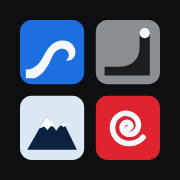
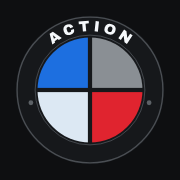
Rundmärke: ACTION i ringen, fyra färgfält; sinuskurva för Mind action
Claude-Session: https://claude.ai/code/session_01STPYKS9MGx6UKJyGrrjUNw

diff --git a/src/components/Logo.tsx b/src/components/Logo.tsx
@@ -1,22 +1,29 @@
 import type { SectionId } from '@/lib/sections';
 
+import { ACTION_ARC_PATH } from './brand-paths';
+
 /**
- * ELEMENTACTIONS MÄRKEN — helt grafiska, ingen text.
+ * ELEMENTACTIONS MÄRKEN
+ *
+ * Huvudmärket är en rund bricka: en mörk ring med ordet ACTION längs
+ * övre bågen, och en inre cirkel delad i fyra fält i sektionernas färger
+ * (vatten blått, betong grått, snö isvitt, mind rött) med en smal glipa
+ * emellan. Ordet "Element" står aldrig i märket.
  *
  * Fyra sektionsmärken, ett per "action":
  *   Water action     blå ruta, en våg som bryter
  *   Concrete action  grå ruta, en quarterpipe i profil med coping
  *   Snow action      isvit ruta, en bergstopp med snötäcke
- *   Mind action      röd ruta, en spiral (tanken som vecklar ut sig)
+ *   Mind action      röd ruta, en sinuskurva
  *
- * Huvudmärket är de fyra sektionsmärkena satta i ett 2×2-rutnät.
- * Fristående SVG-filer finns i public/brand/ (mark.svg, mark-water.svg …)
- * för profilbilder, favicon och tryck.
+ * ACTION-texten är färdiga banor (brand-paths.ts), så märket ser likadant
+ * ut överallt utan att typsnittet behöver laddas. Fristående SVG-filer
+ * finns i public/brand/ (mark.svg, mark-water.svg …).
  */
 
 type MarkProps = { size?: number; className?: string; title?: string };
 
-const TILE = 22; // rutans storlek i huvudmärkets 48×48-rutnät
+const TILE = 22; // sektionsmärkets ruta (viewBox 22×22)
 
 /** Symbolerna ritas i en 22×22-ruta så att de kan återanvändas i båda storlekarna. */
 function Symbol({ section }: { section: SectionId }) {
@@ -55,12 +62,12 @@ function Symbol({ section }: { section: SectionId }) {
       return (
         <>
           <rect width={TILE} height={TILE} rx="4" fill="#e0242f" />
-          {/* spiral som vecklar ut sig från mitten */}
+          {/* sinuskurva: en och en halv period över rutan */}
           <path
-            d="M11 11.2c.9 0 1.3-.9.8-1.6-.7-.9-2.3-.6-2.7.6-.5 1.6.9 3.1 2.6 3 2.2-.1 3.4-2.4 2.7-4.4-.9-2.6-4-3.5-6.3-2.2-2.8 1.6-3.1 5.6-1 7.9 2.4 2.6 6.8 2.4 9.1-.3"
+            d="M3 11C4.9 4.6 6.4 4.6 8.33 11S11.7 17.4 13.67 11 17.1 4.6 19 11"
             fill="none"
             stroke="#f5f8fb"
-            strokeWidth="1.9"
+            strokeWidth="2.2"
             strokeLinecap="round"
           />
         </>
@@ -85,21 +92,30 @@ export function SectionMark({ section, size = 32, className, title }: MarkProps 
   );
 }
 
-/** Huvudmärket: alla fyra i ett 2×2-rutnät. */
+const QUADRANTS: [string, string][] = [
+  ['#1d6fe0', 'M50 50V15A35 35 0 0 0 15 50z'], // uppe vänster: vatten
+  ['#8a8f94', 'M50 50V15A35 35 0 0 1 85 50z'], // uppe höger: betong
+  ['#dce8f3', 'M50 50H15A35 35 0 0 0 50 85z'], // nere vänster: snö
+  ['#e0242f', 'M50 50H85A35 35 0 0 1 50 85z'] // nere höger: mind
+];
+
+/** Huvudmärket: ring med ACTION överst, fyra färgfält i mitten. */
 export function LogoMark({ size = 40, className, title = 'Elementaction' }: MarkProps) {
-  const cells: [SectionId, number, number][] = [
-    ['surfing', 0, 0],
-    ['skateboard', 26, 0],
-    ['snowboard', 0, 26],
-    ['inspiration', 26, 26]
-  ];
   return (
-    <svg width={size} height={size} viewBox="0 0 48 48" className={className} role="img" aria-label={title}>
-      {cells.map(([s, x, y]) => (
-        <g key={s} transform={`translate(${x} ${y})`}>
-          <Symbol section={s} />
-        </g>
+    <svg width={size} height={size} viewBox="0 0 100 100" className={className} role="img" aria-label={title}>
+      <circle cx="50" cy="50" r="49.5" fill="#16181b" />
+      <circle cx="50" cy="50" r="48.6" fill="none" stroke="#4a4e53" strokeWidth=".9" />
+      <circle cx="50" cy="50" r="36.6" fill="none" stroke="#4a4e53" strokeWidth=".6" />
+      <path d={ACTION_ARC_PATH} fill="#f5f8fb" />
+      {/* små markeringar där bågtexten slutar */}
+      <circle cx="10.6" cy="58.5" r="1.6" fill="#5c6166" />
+      <circle cx="89.4" cy="58.5" r="1.6" fill="#5c6166" />
+      {QUADRANTS.map(([fill, d]) => (
+        <path key={fill} d={d} fill={fill} />
       ))}
+      {/* glipan mellan fälten */}
+      <rect x="48.6" y="14" width="2.8" height="72" fill="#16181b" />
+      <rect x="14" y="48.6" width="72" height="2.8" fill="#16181b" />
     </svg>
   );
 }

diff --git a/src/components/brand-paths.ts b/src/components/brand-paths.ts
@@ -1,0 +1,3 @@
+// Genererad av scripts/staging/action_arc.py — ordet ACTION som banor längs ringens övre båge.
+export const ACTION_ARC_PATH =
+  "M29.24 16.72 28.45 16.07 26.45 17.43 26.76 18.4 24.88 19.67 23.09 12.54 25.23 11.1 31.18 15.4ZM25.97 15.89 27.2 15.05 25.23 13.42 25.2 13.45Z M38.83 8.06 36.83 8.77Q36.63 8.2 36.22 7.98Q35.8 7.75 35.26 7.94Q34.62 8.17 34.46 8.67Q34.31 9.17 34.56 9.88L34.77 10.49Q35.02 11.19 35.46 11.48Q35.9 11.78 36.51 11.56Q37.12 11.35 37.32 10.93Q37.52 10.5 37.32 9.94L39.25 9.25Q39.72 10.59 39.16 11.59Q38.59 12.58 37.09 13.11Q35.43 13.7 34.27 13.15Q33.12 12.6 32.53 10.94Q31.94 9.28 32.49 8.12Q33.05 6.97 34.71 6.38Q36.16 5.87 37.26 6.29Q38.35 6.72 38.83 8.06Z M47.02 5.75 47.49 10.87 45.28 11.07 44.81 5.96 42.56 6.16 42.39 4.41 49.11 3.79 49.27 5.54Z M53.06 10.9 53.79 4.04 56 4.28 55.26 11.14Z M66.91 10.67Q66.36 12.32 65.15 12.89Q63.94 13.45 62.24 12.89Q60.55 12.33 59.91 11.16Q59.28 10 59.83 8.33Q60.38 6.66 61.58 6.11Q62.79 5.55 64.48 6.11Q66.18 6.67 66.81 7.84Q67.45 9.01 66.91 10.67ZM62.08 8.74 61.88 9.35Q61.65 10.04 61.87 10.57Q62.09 11.09 62.76 11.32Q63.44 11.54 63.93 11.25Q64.42 10.96 64.65 10.26L64.85 9.65Q65.08 8.96 64.86 8.43Q64.64 7.9 63.96 7.68Q63.29 7.46 62.8 7.75Q62.31 8.04 62.08 8.74Z M72.99 18.22 72.44 13.82 70.58 16.61 68.89 15.48 72.71 9.74 74.33 10.81 74.85 15.25 76.74 12.42 78.43 13.55 74.6 19.29Z";

diff --git a/scripts/staging/action_arc.py b/scripts/staging/action_arc.py
@@ -1,0 +1,43 @@
+"""Gör ordet ACTION till SVG-banor längs ringens övre båge (viewBox 0 0 100 100),
+så att märket ser likadant ut överallt utan att typsnittet behöver laddas."""
+import math
+from fontTools.ttLib import TTFont
+from fontTools.pens.svgPathPen import SVGPathPen
+from fontTools.pens.transformPen import TransformPen
+
+font = TTFont('node_modules/@fontsource/archivo-black/files/archivo-black-latin-400-normal.woff')
+gs = font.getGlyphSet(); cmap = font.getBestCmap(); upm = font['head'].unitsPerEm
+CAP = font['OS/2'].sCapHeight or 0.7 * upm
+
+TEXT = 'ACTION'
+CX = CY = 50
+R_TEXT = 39.2        # baslinjens radie
+CAP_H = 6.9          # versalhöjd i viewBox-enheter
+TRACK = 2.2          # extra avstånd mellan bokstäver (enheter längs bågen)
+s = CAP_H / CAP
+
+widths = [gs[cmap[ord(c)]].width * s for c in TEXT]
+total = sum(widths) + TRACK * (len(TEXT) - 1)
+# bågvinkel från bågens längd; texten centreras runt toppen (-90°)
+ang_total = total / R_TEXT
+a = -math.pi / 2 - ang_total / 2
+out = []
+for c, w in zip(TEXT, widths):
+    mid = a + (w / 2) / R_TEXT
+    # glyfens mitt hamnar på bågen, bokstaven står vinkelrätt mot radien
+    pen = SVGPathPen(gs)
+    x0 = CX + R_TEXT * math.cos(mid); y0 = CY + R_TEXT * math.sin(mid)
+    rot = mid + math.pi / 2
+    cs, sn = math.cos(rot), math.sin(rot)
+    # font-y uppåt → svg-y nedåt; flytta glyfen så att dess mitt (w/2) ligger i origo
+    # matris: [x'] = R * S * (x - w/2) där S = (s, -s)
+    t = TransformPen(pen, (s * cs, s * sn, s * sn, -s * cs, x0 - (w / 2) * cs, y0 - (w / 2) * sn))
+    gs[cmap[ord(c)]].draw(t)
+    out.append(pen.getCommands())
+    a += (w + TRACK) / R_TEXT
+d = ' '.join(out)
+d = ' '.join(f'{float(x):.2f}'.rstrip('0').rstrip('.') if x.replace('.', '').replace('-', '').isdigit() else x for x in d.replace(',', ' ').split())
+open('src/components/brand-paths.ts', 'w').write(
+    '// Genererad av scripts/staging/action_arc.py — ordet ACTION som banor längs ringens övre båge.\n'
+    f'export const ACTION_ARC_PATH =\n  {d!r};\n'.replace("'", '"'))
+print(len(d), 'tecken')

diff --git a/README.md b/README.md
@@ -7,9 +7,9 @@
 | Surfing | Water action (våg) | blå | Fraunces | dyningslinjer och en brytande våg |
 | Skateboard | Concrete action (quarterpipe) | grå | Archivo Black | betongfogar, bowl och bräda |
 | Snowboard | Snow action (bergstopp) | vit | Space Grotesk | berg i lager med fallande snö |
-| Inspiration | Mind action (spiral) | röd på titan | Syne | böjda titanvolymer, som Guggenheim i Bilbao |
+| Inspiration | Mind action (sinuskurva) | röd på titan | Syne | böjda titanvolymer, som Guggenheim i Bilbao |
 
-Logotypen är helt grafisk: de fyra sektionsmärkena i ett 2×2-rutnät. Namnet skrivs alltid
+Huvudmärket är en rund bricka: ACTION längs ringens övre båge och en inre cirkel delad i de fyra sektionsfärgerna. Namnet skrivs alltid
 som ett ord, **Elementaction**. Märkena finns som SVG i `public/brand/`
 (`mark.svg`, `mark-water.svg`, `mark-concrete.svg`, `mark-snow.svg`, `mark-mind.svg`).
 
